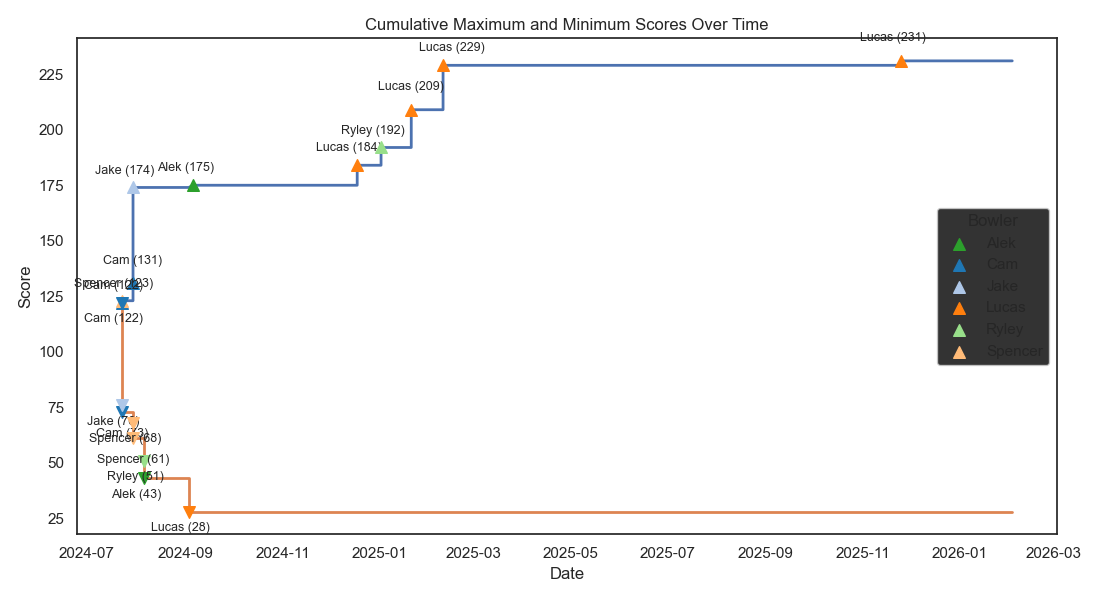
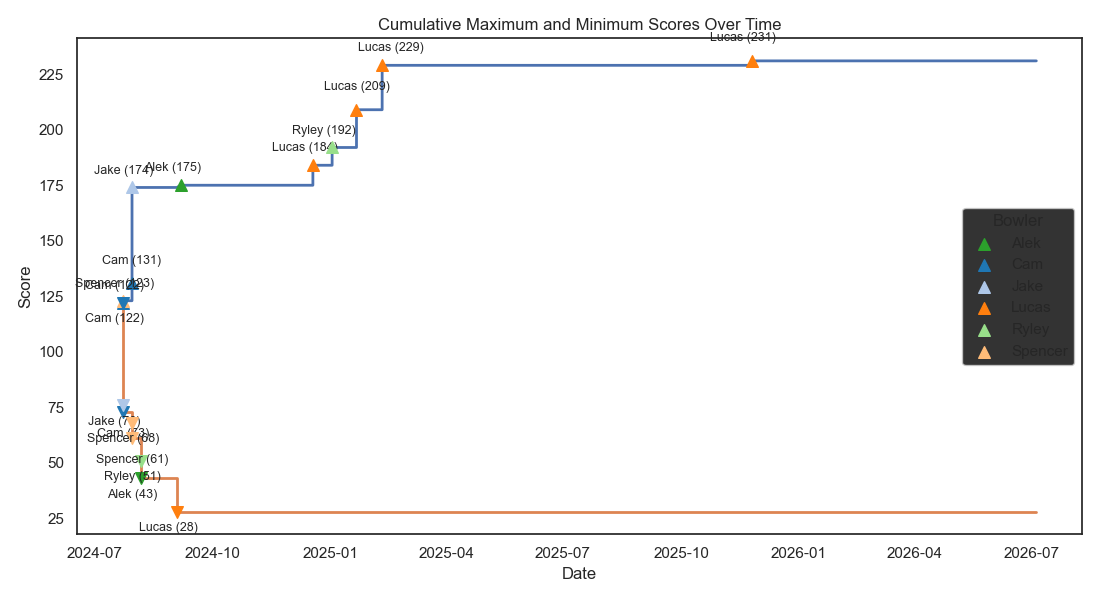
chore: joined a bowling league

diff --git a/statistic.py b/statistic.py
@@ -1,6 +1,6 @@
 import marimo
 
-__generated_with = "0.19.9"
+__generated_with = "0.18.4"
 app = marimo.App(width="full")
 
 
@@ -47,6 +47,7 @@ def _(Game, attrs, pl):
         "Ryley",
         "Spencer",
         "Tristan",
+        "Stuart",
     )
 
     # games stored as a Python object
@@ -117,20 +118,12 @@ def _(bowler_frame, pl):
         summary_statistics_table.join(summary_detection_table, on="bowler_id")
         .with_columns(
             (pl.col("Points") / pl.col("Games")).round(2).alias("Points Per Game"),
-            (pl.col("Points") / pl.col("Frames"))
-            .round(2)
-            .alias("Points Per Frame"),
+            (pl.col("Points") / pl.col("Frames")).round(2).alias("Points Per Frame"),
             (pl.col("Points") / pl.col("Pins")).round(3).alias("Points Per Pin"),
-            (pl.col("Strikes") / pl.col("Games"))
-            .round(2)
-            .alias("Strikes Per Game"),
+            (pl.col("Strikes") / pl.col("Games")).round(2).alias("Strikes Per Game"),
             (pl.col("Spares") / pl.col("Games")).round(2).alias("Spares Per Game"),
-            (pl.col("Wombats") / pl.col("Games"))
-            .round(2)
-            .alias("Wombats Per Game"),
-            (pl.col("Gutters") / pl.col("Games"))
-            .round(2)
-            .alias("Gutters Per Game"),
+            (pl.col("Wombats") / pl.col("Games")).round(2).alias("Wombats Per Game"),
+            (pl.col("Gutters") / pl.col("Games")).round(2).alias("Gutters Per Game"),
         )
         .sort("Points", descending=True)
         .select(
@@ -156,7 +149,6 @@ def _(all_games, cs, summary_table):
     RANGE_START = all_games[0].date.strftime(DATETIME_FORMAT)
     RANGE_END = all_games[-1].date.strftime(DATETIME_FORMAT)
 
-
     class Palette:
         PINS = "Greens"
         POINTS = "GnBu"
@@ -164,7 +156,6 @@ def _(all_games, cs, summary_table):
         SPARES = "Purples"
         WOMBATS = "Oranges"
         GUTTERS = "Reds"
-
 
     gt_table = (
         GT(summary_table)
@@ -249,9 +240,7 @@ def _(mo):
 
 @app.cell(hide_code=True)
 def _(sample_data, sns):
-    sns.displot(
-        sample_data, x="score", hue="bowler_id", kind="hist", multiple="fill"
-    )
+    sns.displot(sample_data, x="score", hue="bowler_id", kind="hist", multiple="fill")
     return
 
 
@@ -379,7 +368,6 @@ def _(frames_data, pl, plt, sns):
         sharey=True,
     )
 
-
     def stacked_bar(data, **kwargs):
         pivot = data.pivot_table(
             index="first_throw",
@@ -402,7 +390,6 @@ def _(frames_data, pl, plt, sns):
         plt.ylim(0, 1)
         plt.xlabel("Pins on First Throw")
         plt.ylabel("Probability")
-
 
     g.map_dataframe(stacked_bar)
     g.set_titles("{col_name}")
@@ -434,7 +421,6 @@ def _(mo):
 @app.cell(hide_code=True)
 def _(bowler_frame):
     from pinsdb.viz import plot_rolling_mean, plot_rolling_statistic
-
 
     plot_rolling_mean(
         bowler_frame,

diff --git a/src/pinsdb/bowlers.py b/src/pinsdb/bowlers.py
@@ -35,6 +35,7 @@ Tristan = Bowler(bowler_id="Tristan", nicknames=("TRI", "BRI"))
 Munson = Bowler(bowler_id="Munson", nicknames=("MU", "MUN"))
 Malachi = Bowler(bowler_id="Malachi", nicknames=("MA",))
 Humarya = Bowler(bowler_id="Humarya", nicknames=("HUM",))
+Stuart = Bowler(bowler_id="Stuart", nicknames=("STU", "STUART"))
 
 REGISTERED_BOWLERS = sorted(
     (
@@ -53,5 +54,6 @@ REGISTERED_BOWLERS = sorted(
         Munson,
         Malachi,
         Humarya,
+        Stuart,
     )
 )